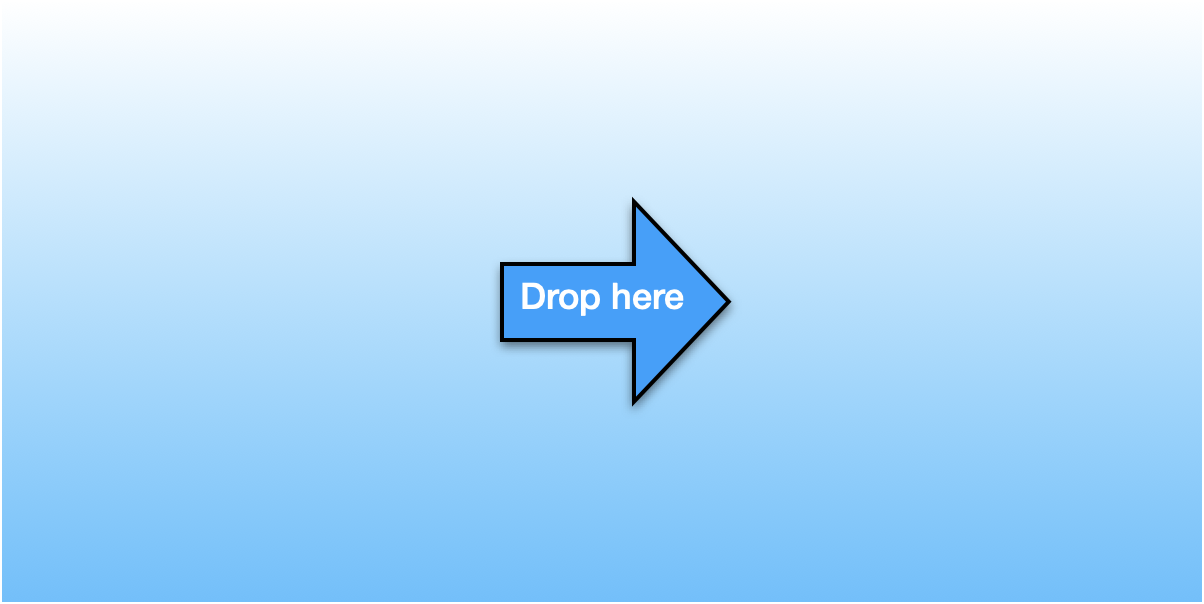
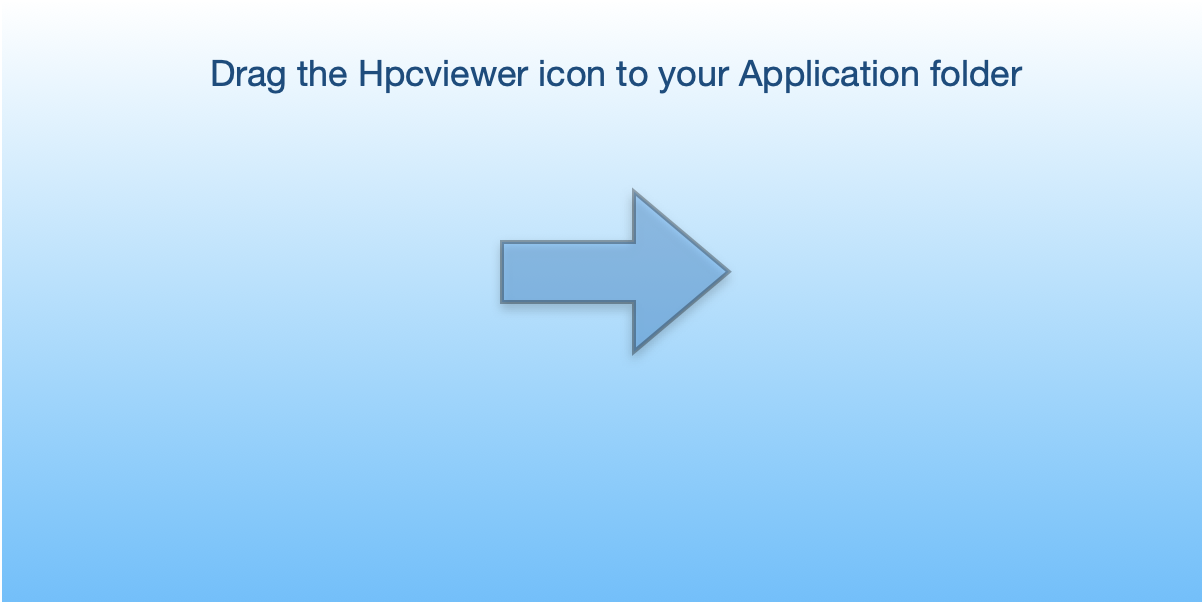
Fix switch menu, refine arrow background in dmg file

Changed region(s): [[0.3995, 0.298, 0.6146, 0.6854], [0.1537, 0.0894, 0.8605, 0.149]]

diff --git a/edu.rice.cs.hpcviewer.ui/src/edu/rice/cs/hpcviewer/ui/addon/DatabaseCollection.java b/edu.rice.cs.hpcviewer.ui/src/edu/rice/cs/hpcviewer/ui/addon/DatabaseCollection.java
@@ -276,7 +276,7 @@ public class DatabaseCollection
 			MWindow 	    window, 
 			EPartService    service,
 			EModelService 	modelService,
-			IDatabaseIdentification          databaseId) {
+			IDatabaseIdentification databaseId) {
 
 		IDatabase database;
 		DatabaseStatus status;
@@ -294,8 +294,8 @@ public class DatabaseCollection
 		if (databaseWindowManager.checkAndConfirmDatabaseExistence(shell, window, dbId) == DatabaseExistence.EXIST_CANCEL )
 			return;		
 
-		database = DatabaseFactory.newInstance(databaseId);
-		status = database.reset(shell, databaseId);
+		database = DatabaseFactory.newInstance(dbId);
+		status = database.reset(shell, dbId);
 		
 		if (status == DatabaseStatus.CANCEL) {
 			// should we notify the user?
